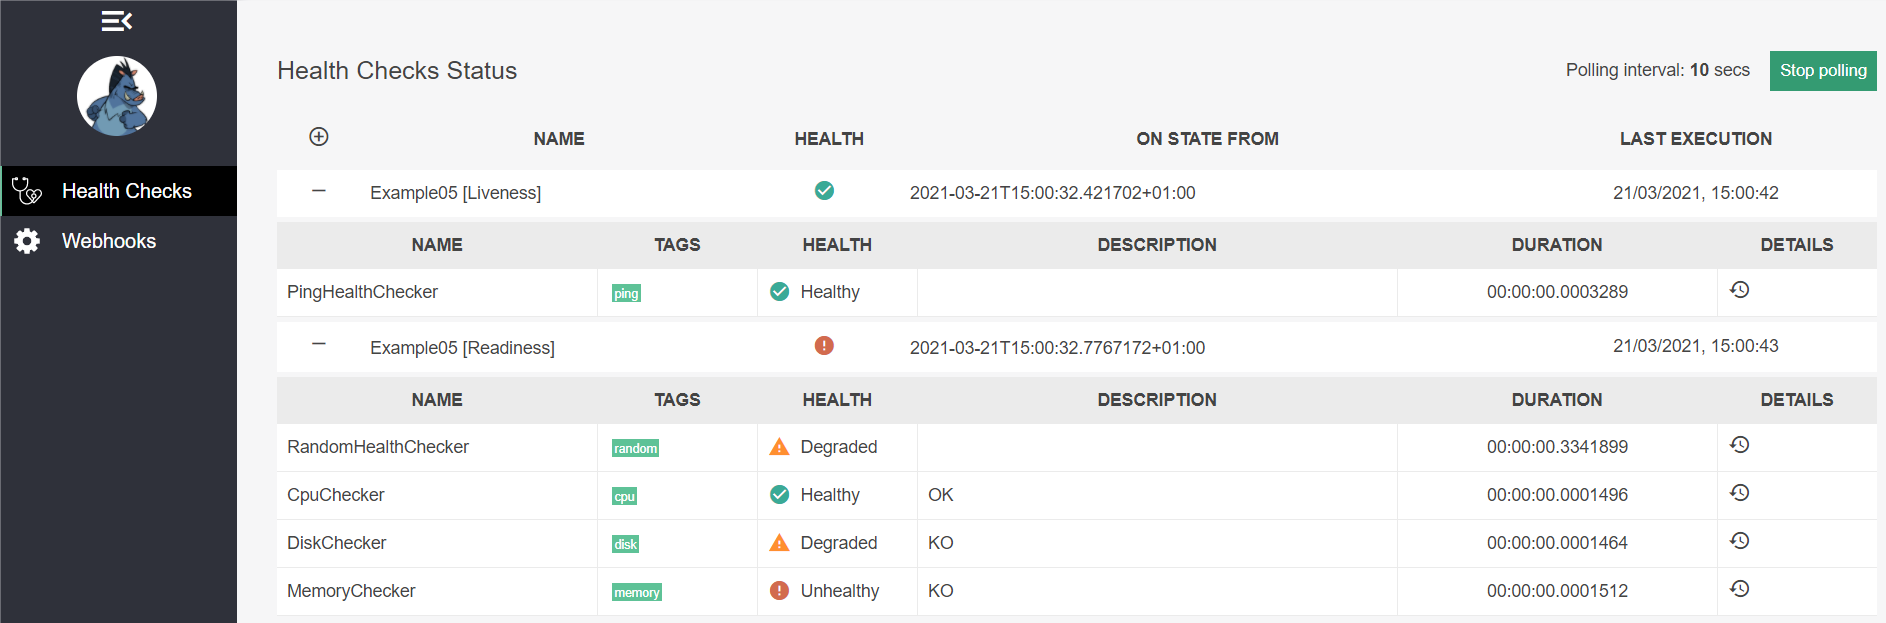
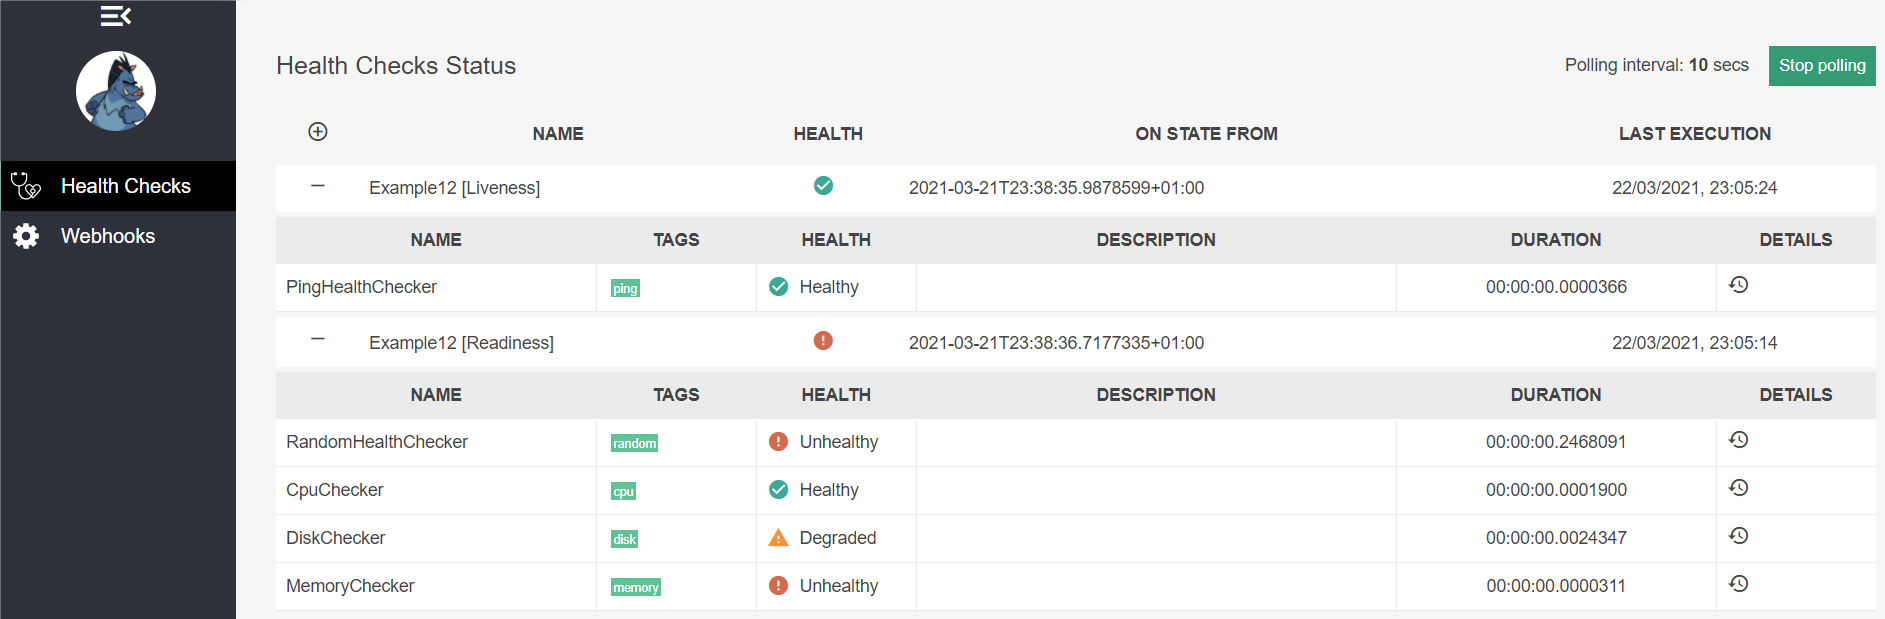
Add screenshots

diff --git a/WebApi/Example12/Startup.cs b/WebApi/Example12/Startup.cs
@@ -41,9 +41,9 @@ namespace WebApi.Example12
             services.AddHealthChecks()
                 .AddCheck<PingHealthChecker>(nameof(PingHealthChecker), tags: new List<string> {"ping"}, timeout: TimeSpan.FromSeconds(1))
                 .AddCheck<RandomHealthChecker>(nameof(RandomHealthChecker), tags: new List<string> {"random"}, timeout: TimeSpan.FromSeconds(1))
-                .AddCheck(name: "CpuChecker", check: () => HealthCheckResult.Healthy("OK"), tags: new List<string> {"cpu"}, timeout: TimeSpan.FromSeconds(1))
-                .AddCheck(name: "DiskChecker", check: () => HealthCheckResult.Degraded("UNK"), tags: new List<string> {"disk"}, timeout: TimeSpan.FromSeconds(1))
-                .AddCheck(name: "MemoryChecker", check: () => HealthCheckResult.Unhealthy("KO"), tags: new List<string> {"memory"}, timeout: TimeSpan.FromSeconds(1))
+                .AddCheck(name: "CpuChecker", check: () => HealthCheckResult.Healthy(), tags: new List<string> {"cpu"}, timeout: TimeSpan.FromSeconds(1))
+                .AddCheck(name: "DiskChecker", check: () => HealthCheckResult.Degraded(), tags: new List<string> {"disk"}, timeout: TimeSpan.FromSeconds(1))
+                .AddCheck(name: "MemoryChecker", check: () => HealthCheckResult.Unhealthy(), tags: new List<string> {"memory"}, timeout: TimeSpan.FromSeconds(1))
                 .AddApplicationInsightsAvailabilityPublisher()
                 .AddApplicationInsightsPublisher();
 

diff --git a/README.md b/README.md
@@ -107,5 +107,9 @@ Exploring healthchecks capabilities with .net 5.0
 >
 >
 > ![Example05Screen](Screenshots/Example05.png)
+>
+>
+> ![Example12Screen](Screenshots/Example12.png)
+>
 
 **`Tools`** : vs19, webapi, net 5.0, serilog
